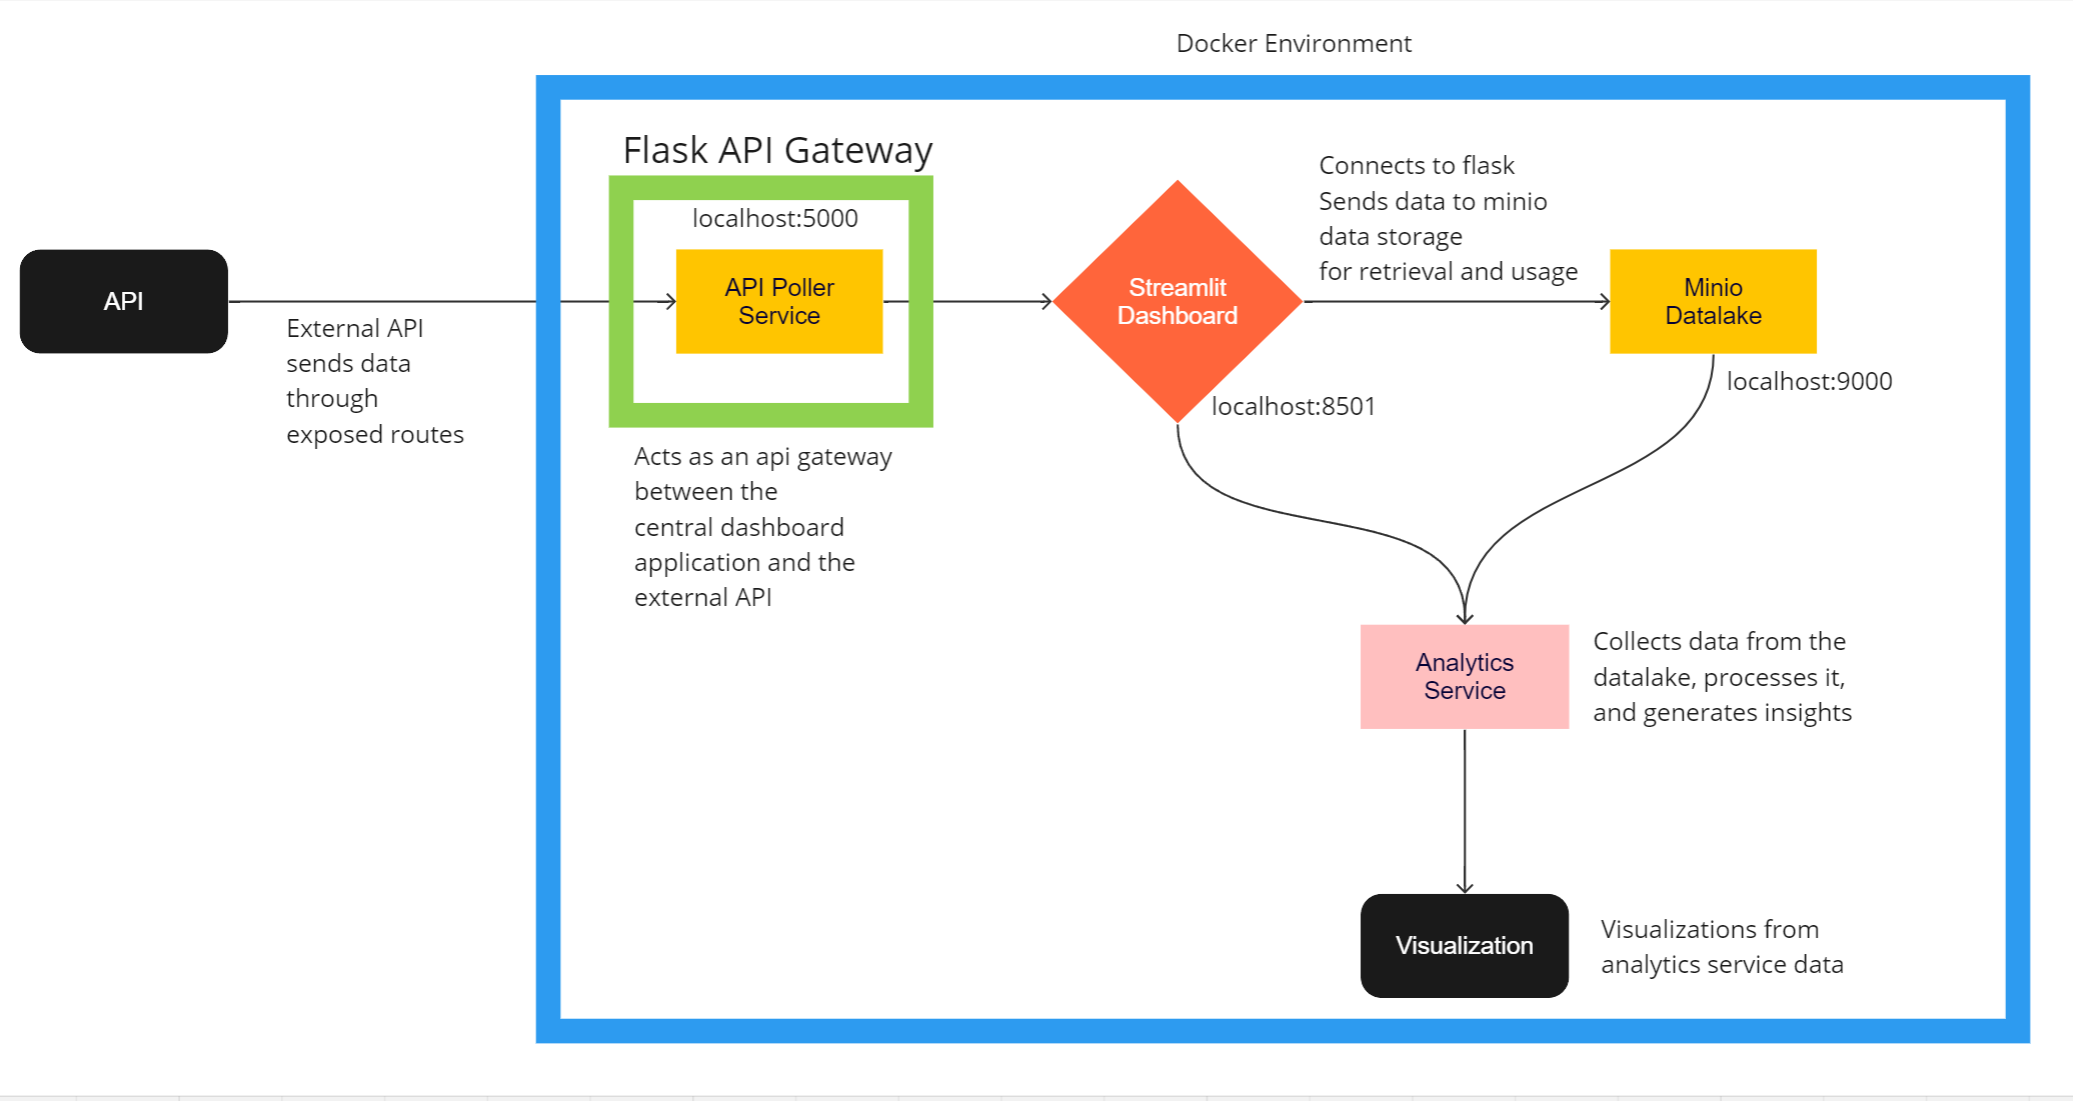
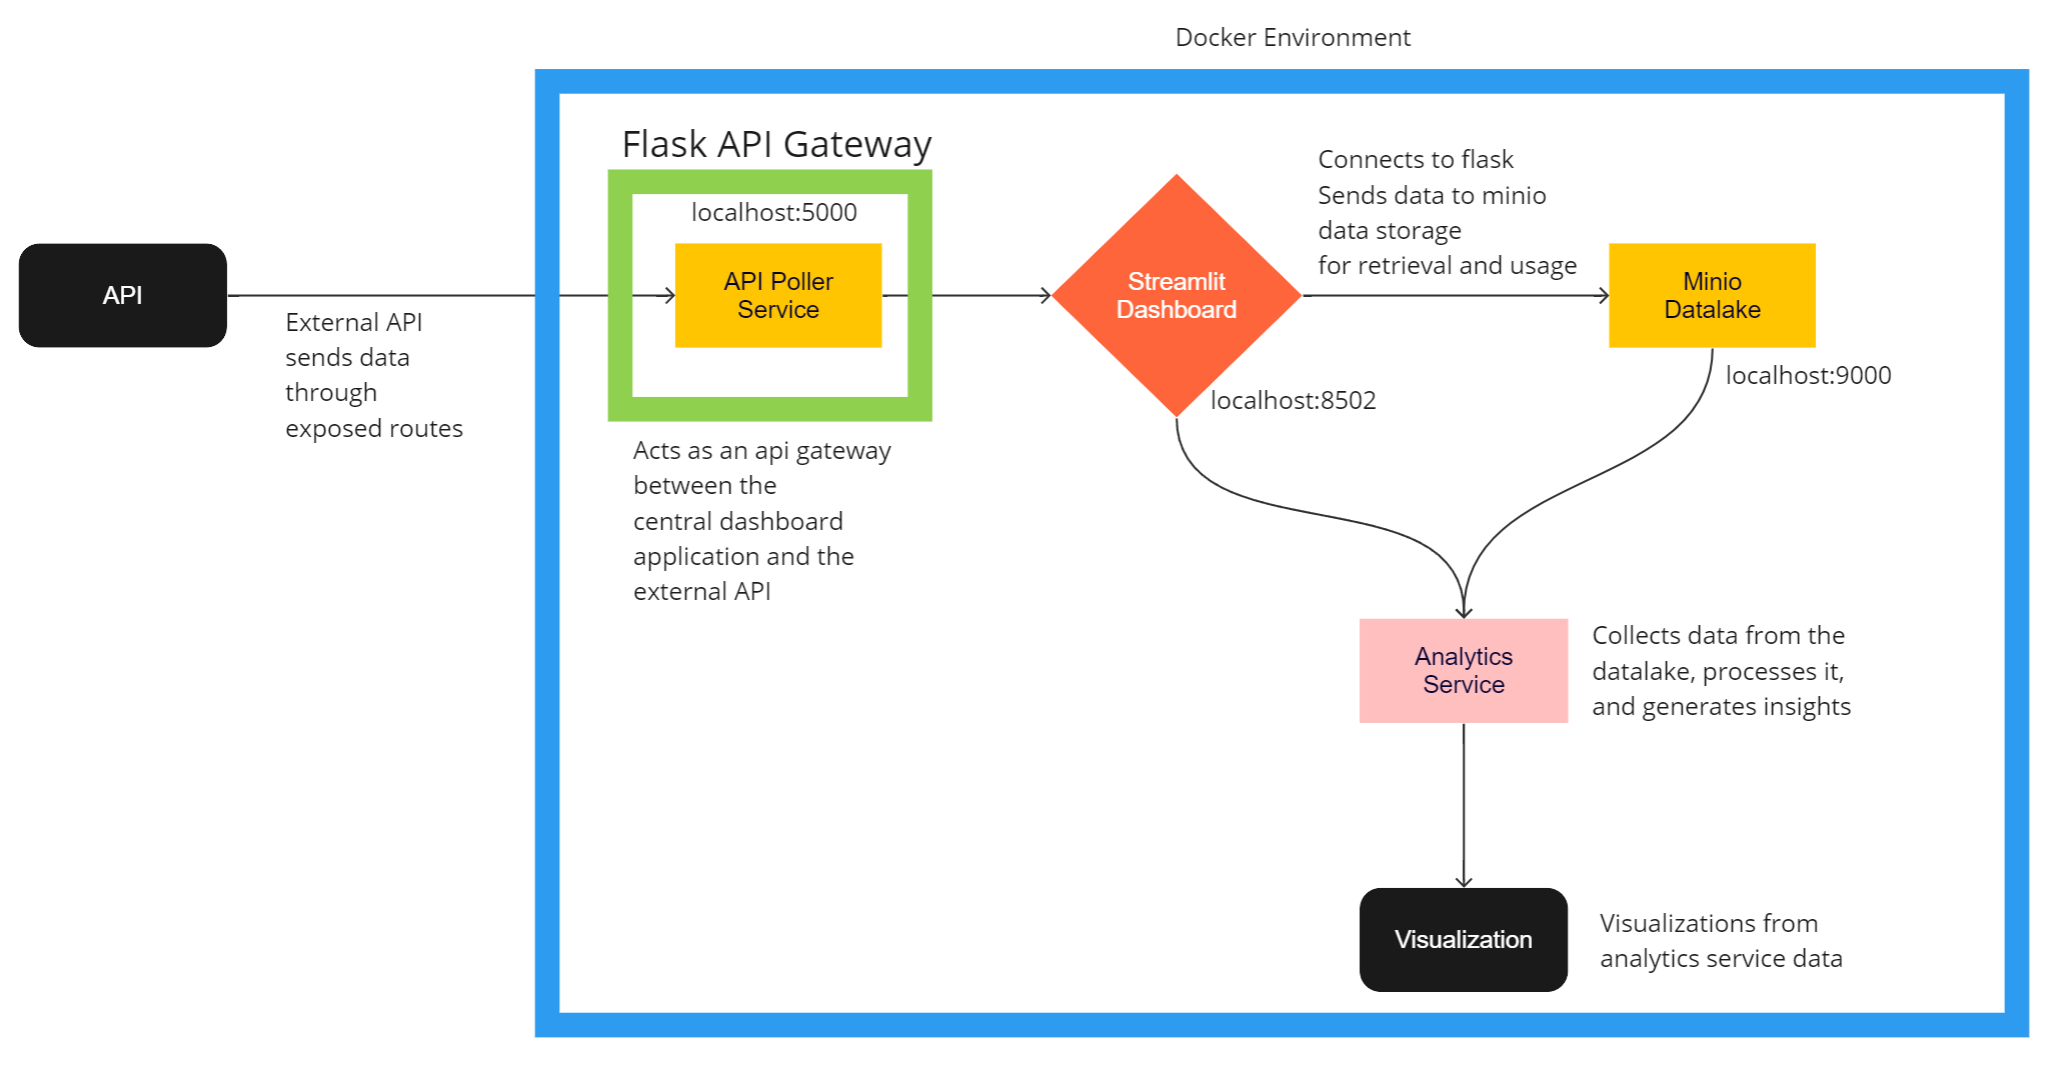
updated readme and sys archi diagram

diff --git a/README.md b/README.md
@@ -1,6 +1,6 @@
 # Webjet API Test - Code Repository
 
-`Please make sure that ports 5000, 8501, 9000 and 9001 are free on your system for the application to run.`
+`Please make sure that ports 5000, 8502, 9000 and 9001 are free on your system for the application to run.`
 
 
 ### System Architecture
